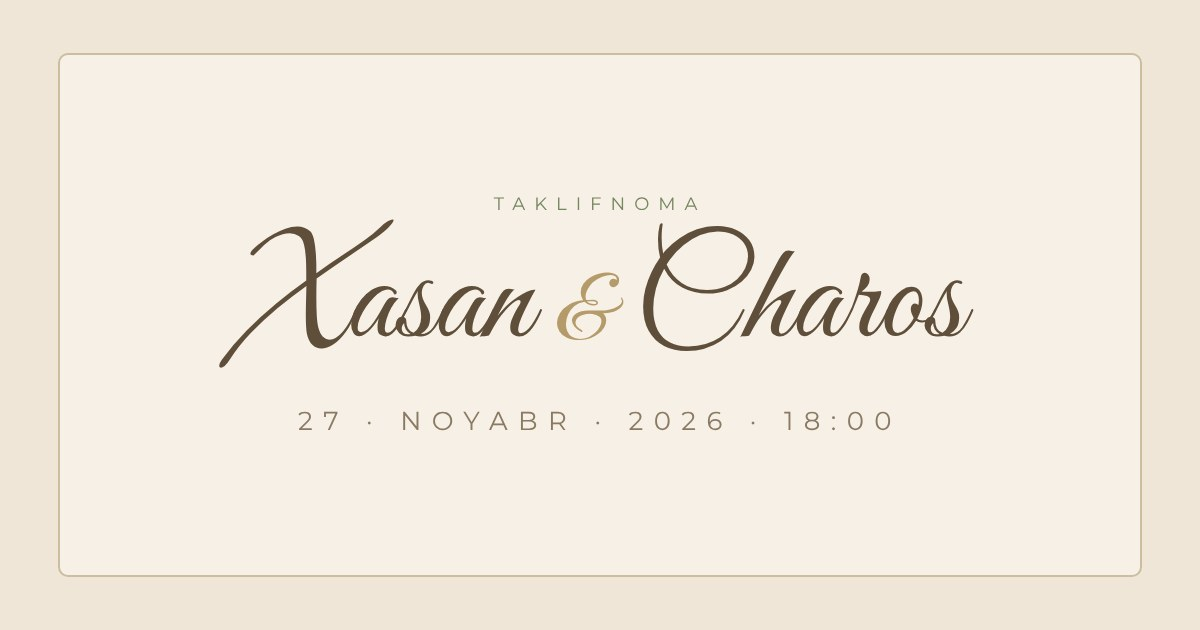
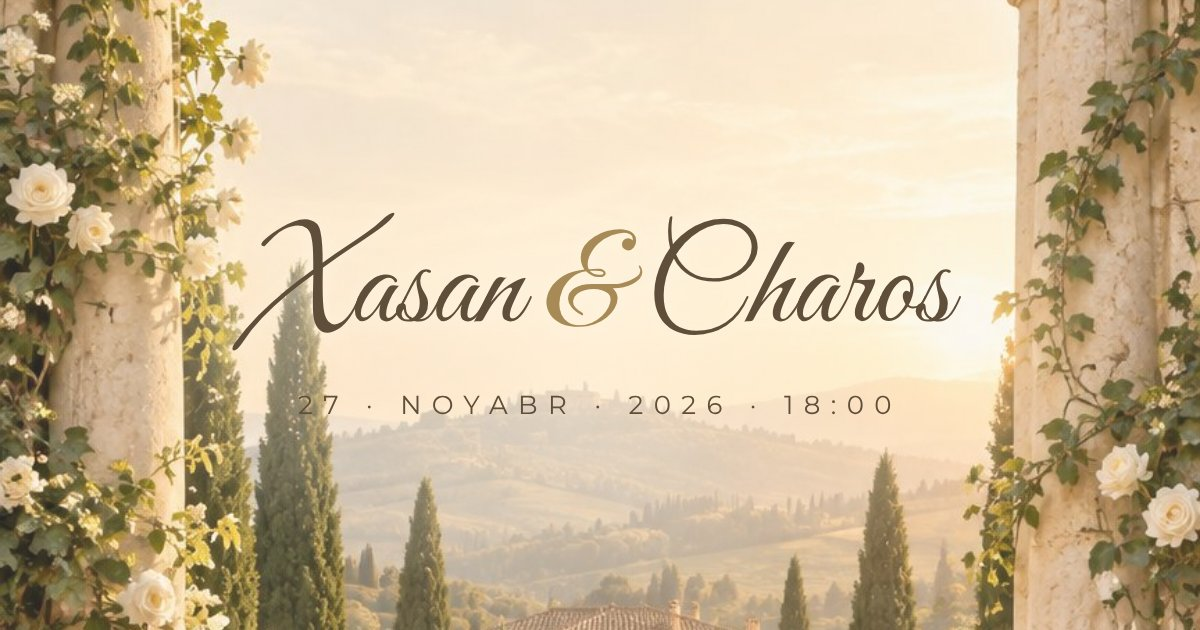
Use photographic garden-arch hero image and refresh link preview
Claude-Session: https://claude.ai/code/session_01Td38Ba772q9X7NUsAyZA1p

diff --git a/index.html b/index.html
@@ -14,6 +14,7 @@
 <meta property="og:image:height" content="630">
 <meta name="twitter:card" content="summary_large_image">
 <meta name="theme-color" content="#efe6d8">
+<link rel="preload" as="image" href="hero.jpg">
 <link rel="preconnect" href="https://fonts.googleapis.com">
 <link rel="preconnect" href="https://fonts.gstatic.com" crossorigin>
 <link href="https://fonts.googleapis.com/css2?family=Great+Vibes&family=Cormorant+Garamond:ital,wght@0,400;0,500;0,600;1,400&family=Montserrat:wght@400;500&display=swap" rel="stylesheet">
@@ -139,7 +140,12 @@ body.locked{overflow:hidden}
 main{max-width:var(--stage-w);margin:0 auto;background:var(--paper) var(--noise);
   box-shadow:0 0 60px rgba(70,50,25,.18);overflow:hidden}
 .hero{position:relative;height:100vh;height:100svh;min-height:560px;overflow:hidden}
-.hero svg.scene{position:absolute;inset:0;width:100%;height:100%}
+.hero .scene-img{position:absolute;inset:0;background:#efe2c8 url(hero.jpg) center 40%/cover no-repeat;
+  transform:scale(1.08);transition:transform 6s cubic-bezier(.2,.7,.2,1)}
+body.opened .hero .scene-img{transform:scale(1)}
+.hero .scene-img::after{content:"";position:absolute;inset:0;
+  background:radial-gradient(60% 30% at 50% 38%,rgba(255,246,228,.55),transparent 70%),
+             linear-gradient(180deg,transparent 70%,rgba(70,50,25,.25))}
 .hero .names{
   position:absolute;left:0;right:0;top:27%;text-align:center;
   font-family:"Great Vibes",cursive;color:#6a5840;line-height:.95;
@@ -153,7 +159,7 @@ body.opened .hero .scroll{opacity:1}
 .hero .names .amp{font-size:clamp(28px,8vw,40px);display:block;color:var(--gold);margin:4px 0}
 .hero .scroll{
   position:absolute;left:0;right:0;bottom:max(26px,env(safe-area-inset-bottom));
-  text-align:center;font-size:22px;color:#7d6c55;text-shadow:0 1px 10px rgba(255,248,232,.9)
+  text-align:center;font-size:22px;color:#fff8ea;text-shadow:0 1px 8px rgba(60,40,15,.6)
 }
 .hero .scroll span{display:block;font-size:26px;animation:bob 1.8s ease-in-out infinite}
 @keyframes bob{0%,100%{transform:translateY(0)}50%{transform:translateY(7px)}}
@@ -279,7 +285,7 @@ p.lead em{color:var(--sage-d)}
 <!-- ============ INVITATION ============ -->
 <main id="main" aria-hidden="true">
   <header class="hero" id="hero">
-    <svg class="scene" id="scene" viewBox="0 0 400 760" preserveAspectRatio="xMidYMid slice" aria-hidden="true"></svg>
+    <div class="scene-img" aria-hidden="true"></div>
     <h1 class="names"><span class="n">Xasan</span><span class="amp">&amp;</span><span class="n">Charos</span></h1>
     <div class="scroll">pastga suring<span>↓</span></div>
   </header>
@@ -559,7 +565,6 @@ p.lead em{color:var(--sage-d)}
     s += `<rect width="${W}" height="${H}" fill="url(#vig)"/>`;
     scene.innerHTML = s;
   }
-  buildScene();
 
   function petals(){
     const hero = document.getElementById('hero');
